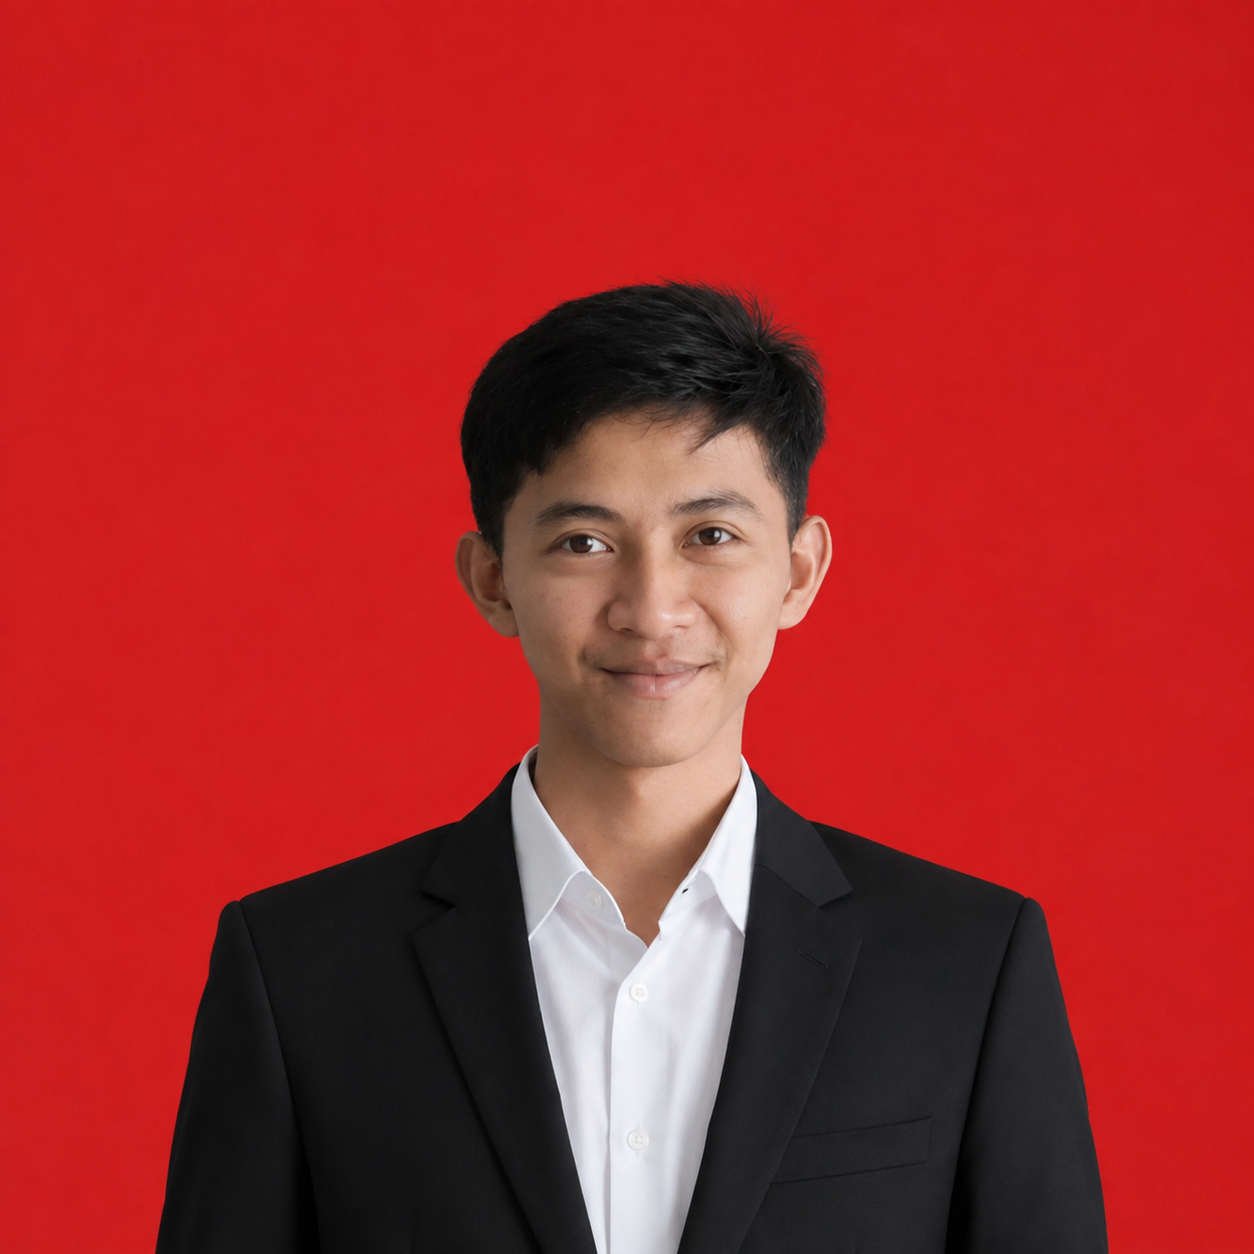
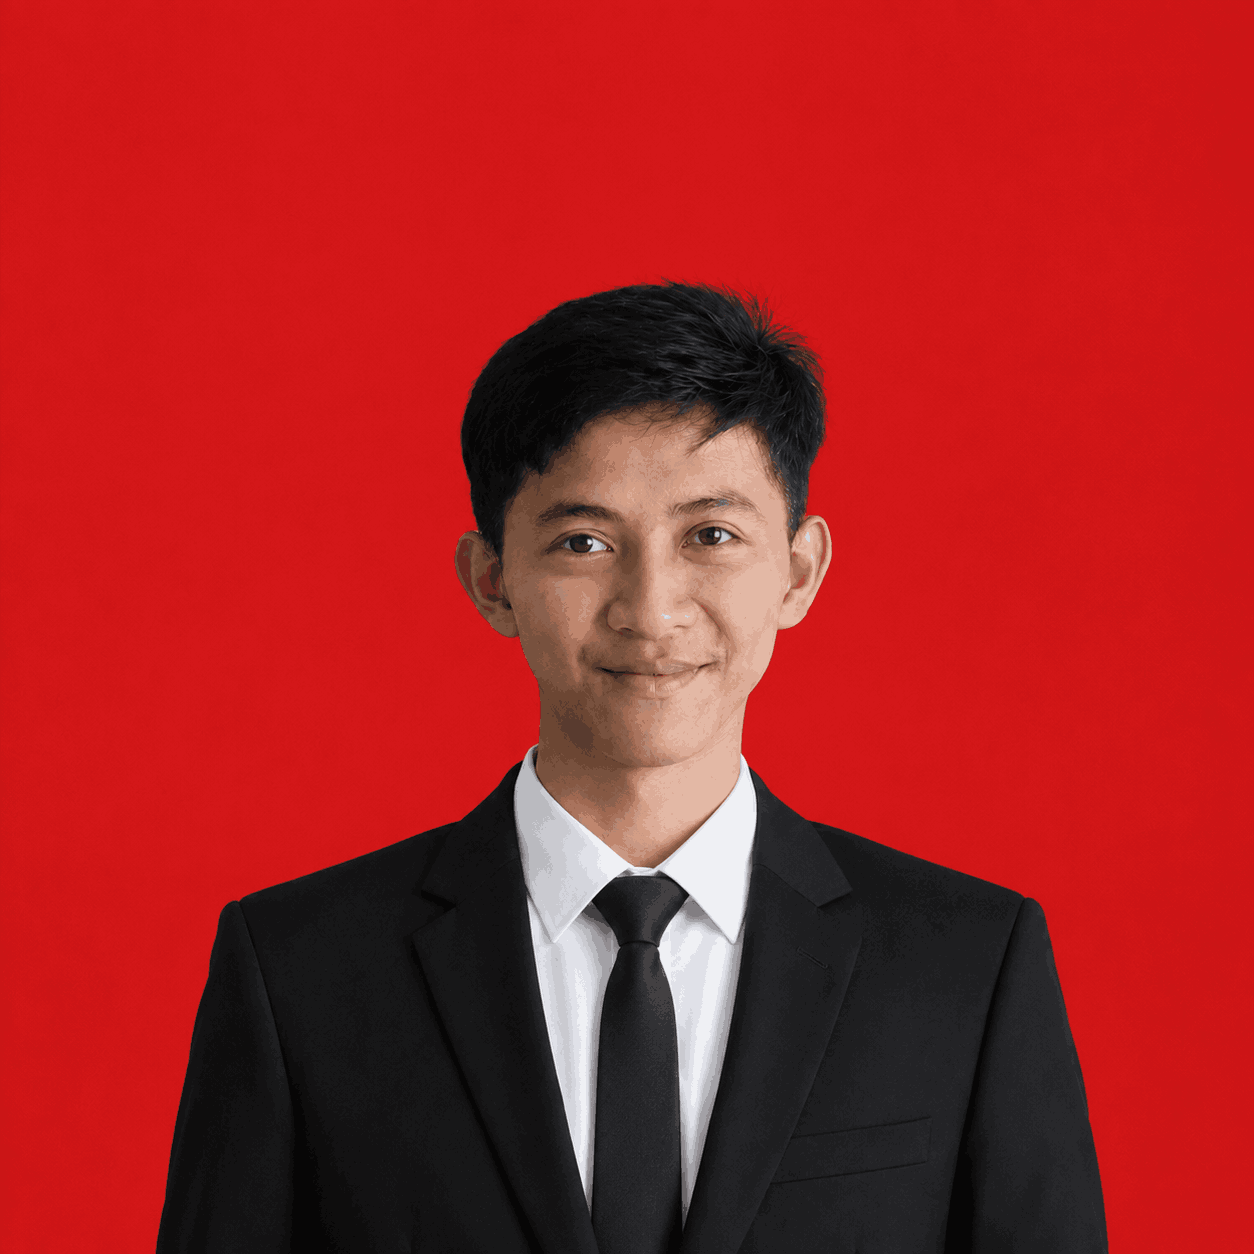
update

diff --git a/index.html b/index.html
@@ -9,7 +9,7 @@
     <!-- SEO Meta Tags -->
     <title>Muhammad Nabil | Software Engineer, Laravel & Android Developer</title>
     <meta name="description"
-        content="Portofolio Profesional Muhammad Nabil - Software Engineer, Laravel Developer, & Android Developer. Lulusan S1 Teknik Informatika USTI Pekanbaru dengan IPK 3.72/4.00, berpengalaman di PTPN IV Regional III dan Bangkit Academy.">
+        content="Portofolio Profesional Muhammad Nabil - Software Engineer, Laravel Developer, & Android Developer. Lulusan S1 Teknik Informatika USTI Pekanbaru dengan IPK 3.71/4.00, berpengalaman di PTPN IV Regional III dan Bangkit Academy.">
     <meta name="keywords"
         content="Muhammad Nabil, Muhammad Nabil, Software Engineer, Laravel Developer, Android Developer, Web Developer Pekanbaru, Bangkit Academy, PTPN IV Regional III, Portofolio IT">
     <meta name="author" content="Muhammad Nabil">
@@ -21,7 +21,7 @@
     <meta property="og:url" content="https://nabil17-alt.github.io/Portofolio/">
     <meta property="og:title" content="Muhammad Nabil | Software Engineer & Developer">
     <meta property="og:description"
-        content="Portofolio profesional Muhammad Nabil - Software Engineer, Laravel Developer, dan Android Developer lulusan USTI (IPK 3.72/4.00).">
+        content="Portofolio profesional Muhammad Nabil - Software Engineer, Laravel Developer, dan Android Developer lulusan USTI (IPK 3.71/4.00).">
     <meta property="og:image" content="./pages/img/Muhammad_Nabil.png">
     <meta property="og:locale" content="id_ID">
 
@@ -30,7 +30,7 @@
     <meta name="twitter:url" content="https://nabil17-alt.github.io/Portofolio/">
     <meta name="twitter:title" content="Muhammad Nabil | Software Engineer & Developer">
     <meta name="twitter:description"
-        content="Portofolio profesional Software Engineer, Laravel & Android Developer. Lulusan S1 Teknik Informatika IPK 3.72.">
+        content="Portofolio profesional Software Engineer, Laravel & Android Developer. Lulusan S1 Teknik Informatika IPK 3.71.">
     <meta name="twitter:image" content="./pages/img/Muhammad_Nabil.png">
 
     <!-- Favicon & Stylesheets -->
@@ -101,7 +101,7 @@
     <!-- Floating Navigation Header -->
     <header id="header">
         <div class="nav container">
-            <a href="#home" class="logo"><span>Nabil</span>.Dev</a>
+            <a href="#home" class="logo"><span>Portofolio</span>Nabil</a>
             <ul class="navbar">
                 <li><a href="#home" class="nav-link active">Beranda</a></li>
                 <li><a href="#about" class="nav-link">Tentang</a></li>
@@ -128,7 +128,7 @@
                 <div class="hero-text fade-up-element">
                     <div class="hero-tag">
                         <span class="hero-tag-dot"></span>
-                        Tersedia untuk Peluang Kerja & Proyek
+                        Terbuka untuk Peluang Kerja
                     </div>
                     <h1>Muhammad Nabil</h1>
                     <div class="typing-container">
@@ -177,7 +177,7 @@
                 <div class="summary-card">
                     <div class="summary-icon"><i class="bx bxs-graduation"></i></div>
                     <div class="summary-content">
-                        <h4>3.72 / 4.00</h4>
+                        <h4>3.71 / 4.00</h4>
                         <p>IPK Transkrip S1 USTI</p>
                     </div>
                 </div>
@@ -222,7 +222,7 @@
                             <i class="bx bx-user-pin"></i> Profil Singkat
                         </div>
                         <p>
-                            Saya adalah lulusan <strong>Sarjana Teknik Informatika (S.Kom)</strong> dari Universitas Sains dan Teknologi Indonesia (USTI) dengan IPK 3,72 / 4,00. Berfokus pada pengembangan aplikasi web berbasis Laravel dan aplikasi mobile Android native dengan Kotlin.
+                            Saya adalah lulusan <strong>Sarjana Teknik Informatika (S.Kom)</strong> dari Universitas Sains dan Teknologi Indonesia (USTI) dengan IPK 3,71 / 4,00. Berfokus pada pengembangan aplikasi web berbasis Laravel dan aplikasi mobile Android native dengan Kotlin.
                         </p>
                         <p>
                             Memiliki pengalaman nyata dalam mengembangkan Sistem Informasi Manajemen Pembelian CPO & PK di PT Perkebunan Nusantara IV Regional III serta mengikuti program studi independen Android Development di Bangkit Academy (MSIB).
@@ -536,7 +536,7 @@
                         <h3>S1 Teknik Informatika (S.Kom)</h3>
                         <h4>Universitas Sains dan Teknologi Indonesia (USTI)</h4>
                         <ul class="timeline-achievements">
-                            <li>Lulus Sarjana Teknik Informatika dengan <strong>IPK 3,72 / 4,00</strong>.</li>
+                            <li>Lulus Sarjana Teknik Informatika dengan <strong>IPK 3,71 / 4,00</strong>.</li>
                             <li>Mendalami rekayasa perangkat lunak, sistem informasi manajemen, basis data relasional, pemrograman web, dan aplikasi mobile.</li>
                         </ul>
                     </div>
@@ -812,7 +812,7 @@
             <div class="container">
                 <div class="stats-grid">
                     <div class="stat-box">
-                        <div class="stat-number" data-target="3.72">3.72</div>
+                        <div class="stat-number" data-target="3.71">3.71</div>
                         <div class="stat-label">IPK Transkrip S1</div>
                     </div>
                     <div class="stat-box">
@@ -855,7 +855,7 @@
                         <div class="contact-icon"><i class="bx bx-phone-call"></i></div>
                         <div class="contact-details">
                             <h4>WhatsApp / Telepon</h4>
-                            <p><a href="https://wa.me/6282286923525" target="_blank" rel="noopener">0822-8692-3525</a></p>
+                            <p><a href="https://wa.me/6282286923525" target="_blank" rel="noopener">0859-2441-1619</a></p>
                         </div>
                     </div>
 
@@ -915,7 +915,7 @@
     <!-- 10. Footer Section -->
     <footer>
         <div class="container footer-content">
-            <a href="#home" class="logo"><span>Nabil</span>.Dev</a>
+            <a href="#home" class="logo"><span>Portofolio</span>Nabil</a>
             <div class="footer-nav">
                 <a href="#home">Beranda</a>
                 <a href="#about">Tentang</a>
